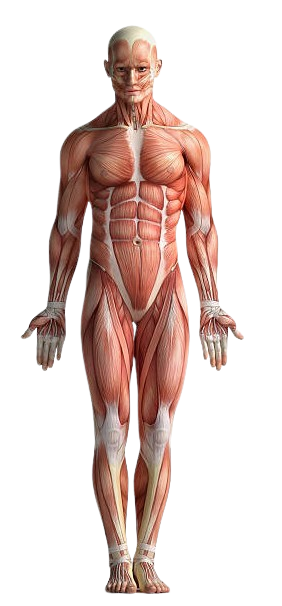
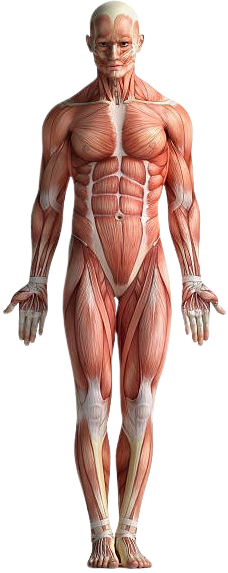
responsive

diff --git a/Assignment/src/components/DashboardOverview.jsx b/Assignment/src/components/DashboardOverview.jsx
@@ -1,5 +1,9 @@
 import React from 'react';
 import anatomy from '../assets/images/anatomy.png'
+import lungs from '../assets/images/lungs.png'
+import tooth from '../assets/images/tooth.png'
+import bone from '../assets/images/bone.png'
+
 import { FaLungs } from "react-icons/fa";
 import { FaTooth } from "react-icons/fa";
 import { PiBoneFill } from "react-icons/pi";
@@ -13,30 +17,21 @@ export default function DashboardOverview() {
             date: 'Date: 26 Oct 2001',
             value: 75,
             color: '#ac4447',
-            Icon: () => (<FaLungs style={{
-                color: '#EF7878',
-                fontSize: '30px'
-            }} />),
+            icon: lungs,
         },
         {
             name: 'Tooth',
             date: 'Date: 26 Oct 2001',
             value: 75,
             color: '#7dcdba',
-            Icon: () => (<FaTooth style={{
-                color: '#D2C5AB',
-                fontSize: '30px'
-            }} />),
+            icon: tooth,
         },
         {
             name: 'Bone',
             date: 'Date: 26 oct 2001',
             value: 75,
             color: '#fb7157',
-            Icon: () => (<PiBoneFill style={{
-                color: "#BEC1D0",
-                fontSize: '30px'
-            }} />),
+            icon: bone,
         }
     ]
 
@@ -46,14 +41,16 @@ export default function DashboardOverview() {
             <div style={{
                 display: 'flex',
                 alignItems: 'center',
+                flexWrap: 'wrap',
                 justifyContent: 'space-between',
                 color: '#3734A9'
             }}>
                 <h2>Dashboard</h2>
                 <h3>This weak</h3>
             </div>
+
             <div className='anatomy-section'>
-                <div>
+                <div className='anatomy-img'>
                     <img src={anatomy} alt="" />
                 </div>
                 <div className='status-card-container' >
@@ -63,14 +60,18 @@ export default function DashboardOverview() {
                                 key={index}
                                 name={organ.name}
                                 date={organ.date}
-                                Icon={organ.Icon}
+                                icon={organ.icon}
                                 value={organ.value}
                                 color={organ.color}
-                                iconColor={organ.iconColor}
                             />
                         ))
                     }
                 </div>
+            </div>
+
+            <div className='activity'>
+                <p>s adipisci architecto fugit culpa sapiente laborum nobis similique.</p>
+                <p>s adipisci architecto fugit culpa sapiente laborum nobis similique.</p>
             </div>
         </div>
     )

diff --git a/Assignment/src/index.css b/Assignment/src/index.css
@@ -103,38 +103,63 @@ li a {
     background-color: #F5F9FF;
     padding: 10px;
     border-radius: 20px;
+    width: 100%;
+}
+
+.dashboard-main-component{
+    display: flex;
+    flex-wrap: wrap;
+    margin-left: 220px;
     
+}
+
+.anatomy-img{
+    width: 250px;
+    height: 380px;
+    background: #F5F9FF;
+    display: flex;
+    align-items: center;
+    justify-content: center;
+    padding: 20px;
+    overflow: hidden;
+    border-radius: 20px;
+}
+
+.anatomy-img img{
+    width: 100%;
+    height: 100%;
+    object-fit: contain;
 }
 
 .anatomy-section{
     display: flex;
-    justify-content: space-evenly;
+    justify-content: space-around;
     align-items: center;
-    padding: 20px 30px;
+    padding: 20px 20px;
     flex-wrap: wrap;
 }
 
+.dashboard-overview{
+    padding: 0 20px;
+    border: 3px solid red;
+    width: 50vmax;
+}
+
 .status-card-container{
+    width: 250px;
+    height: 380px;
     display: flex;
     flex-direction: column;
-    justify-content: space-evenly;
+    justify-content: space-between;
+    align-items: center;
 }
 
-@media (max-width: 768px) {
-    .sidebar {
-        width: 100%;
-        height: auto;
-        position: relative;
-        padding-top: 0;
-    }
-    .main-content {
-        width: 100vh;
-        margin-left: 0;
-    }
+ @media (max-width: 700px) {
     .header{
         width: 100vh;
-        padding: 0 0;
+        padding: 0 10px;
     }
-}
-
-
+    .search-box input{
+        flex-grow: 1;
+    }
+ }

diff --git a/Assignment/src/components/Cards/StatusCard.jsx b/Assignment/src/components/Cards/StatusCard.jsx
@@ -2,7 +2,7 @@ import React from "react"
 import PropTypes from 'prop-types'
 
 
-function StatusCard({ name, date, Icon, value, color = 'green' }) {
+function StatusCard({ name, date, icon, value, color = 'green' }) {
     return (
         <div>
             <div className="status-card">
@@ -11,7 +11,11 @@ function StatusCard({ name, date, Icon, value, color = 'green' }) {
                     alignItems: 'center',
                     gap: '10px',
                 }}>
-                    <Icon />
+                    <img src={icon} style={{
+                        paddingLeft: '5px',
+                        width: "28px",
+                        height: "28px"
+                    }} alt="" />
                     <span style={{
                         fontSize: '1.5rem',
                         fontWeight: 'bold',

diff --git a/Assignment/src/App.jsx b/Assignment/src/App.jsx
@@ -1,13 +1,14 @@
 import Header from './components/Header/Header'
 import Sidebar from './components/Sidebar/Sidebar'
 import DashboardOverview from './components/DashboardOverview'
+import DashboardMainComponent from './components/DashboardMainComponent'
 
 function App() {
   return (
     <>
       <Header />
       <Sidebar />
-      <DashboardOverview />
+      <DashboardMainComponent />
     </>
   )
 }

diff --git a/Assignment/src/components/DashboardMainComponent.jsx b/Assignment/src/components/DashboardMainComponent.jsx
@@ -1,9 +1,12 @@
 import React from 'react'
+import DashboardOverview from './DashboardOverview'
+import CalendarOverview from './CalendarOverview'
 
 function DashboardMainComponent() {
     return (
-        <div>
-
+        <div className='dashboard-main-component'>
+            <DashboardOverview />
+            <CalendarOverview />
         </div>
     )
 }

diff --git a/Assignment/src/components/CalendarOverview.jsx b/Assignment/src/components/CalendarOverview.jsx
@@ -1,0 +1,9 @@
+import React from 'react'
+
+function CalendarOverview() {
+    return (
+        <div>CalendarOverview</div>
+    )
+}
+
+export default CalendarOverview
